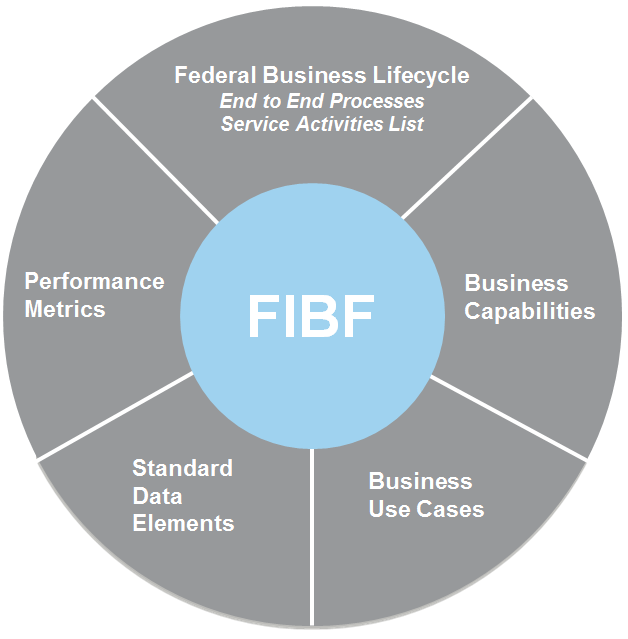
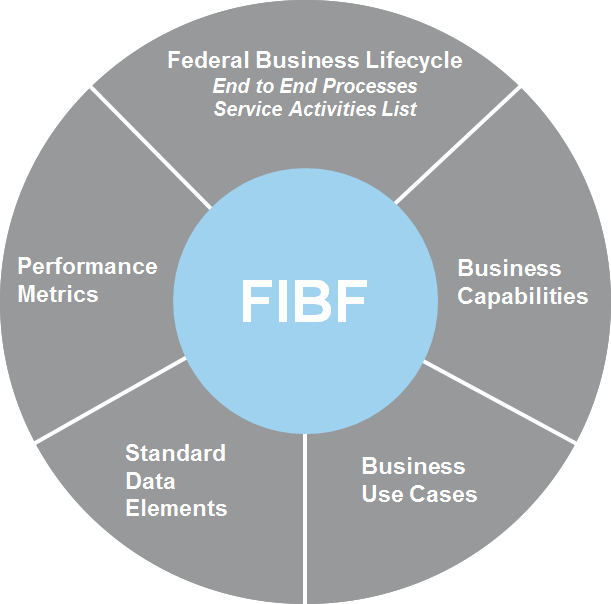
wheel

diff --git a/_layouts/fibf.html b/_layouts/fibf.html
@@ -101,7 +101,7 @@ layout: base
     <div class="grid-container">
         <div class="grid-row grid-gap">
             <div class="tablet:grid-col">
-                <img src="https://ussm.gsa.gov/assets/img/fibf/fibf.plain.png" class="fibf-wheel" alt="fibf wheel">
+                <img src="{{site.baseurl}}/assets/images/fibf/fibf.plain.png" class="fibf-wheel" alt="fibf wheel">
             </div>
             <div class="tablet:grid-col text-base-lightest">
                 <h3 >FIBF Components</h3>
